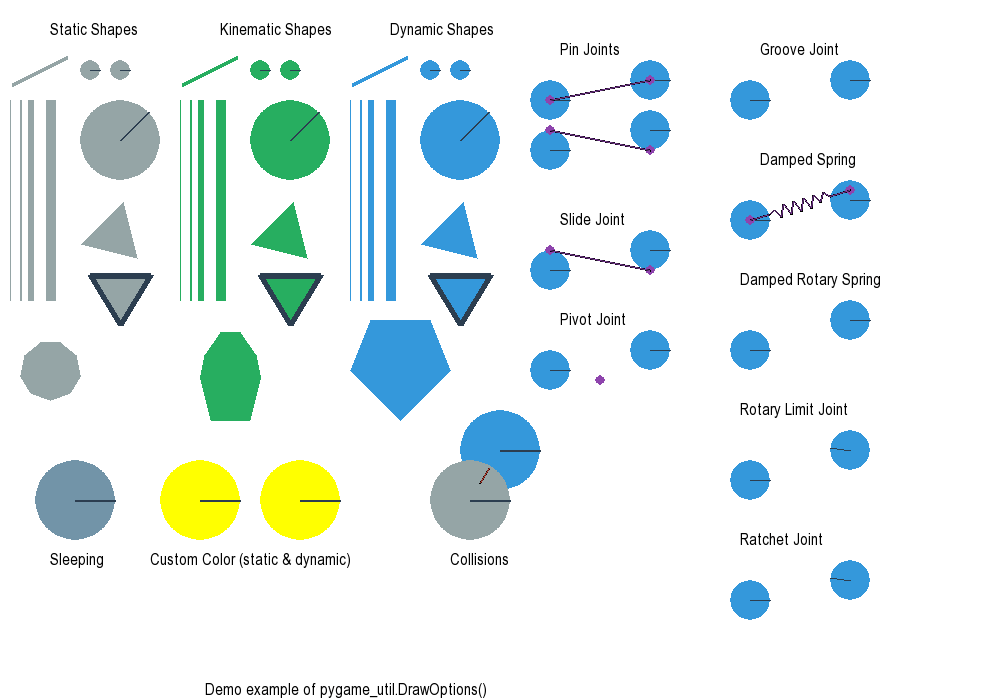
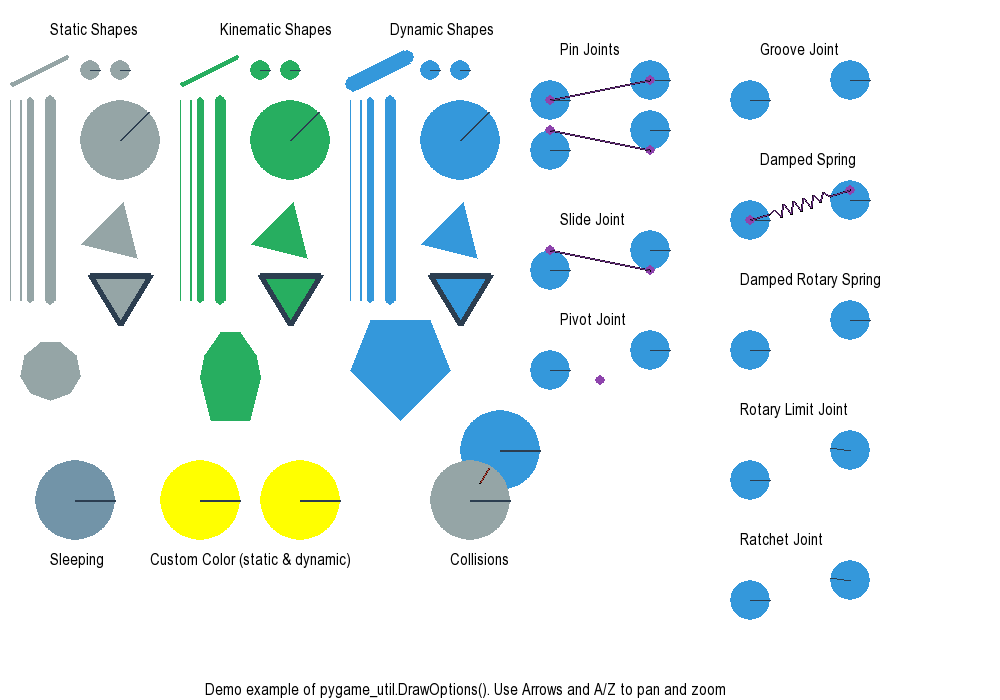
Improved segment drawing in pygame_util.py

Changed region(s): [[0.496, 0.96, 0.713, 1.0], [0.341, 0.06, 0.434, 0.15]]

diff --git a/pymunk/pygame_util.py b/pymunk/pygame_util.py
@@ -86,7 +86,7 @@ class DrawOptions(pymunk.SpaceDebugDrawOptions):
         make adjustments for that with the :py:data:`positive_y_is_up` variable.
 
         By default drawing is done with positive y pointing up, but that will 
-        make conversion from pygame coordinate to pymunk coordinate nessecary. 
+        make conversion from pygame coordinate to pymunk coordinate necessary. 
         If you do a lot of those (for example, lots of mouse input) it might be 
         more convenient to set it to False::
 
@@ -129,9 +129,26 @@ class DrawOptions(pymunk.SpaceDebugDrawOptions):
     def draw_fat_segment(self, a, b, radius, outline_color, fill_color):
         p1 = to_pygame(a, self.surface)
         p2 = to_pygame(b, self.surface)
-        
+        def rndint(x): return int(round(x))
         r = int(max(1, radius*2))
         pygame.draw.lines(self.surface, fill_color, False, [p1,p2], r)
+        if r > 2:
+            #pygame.draw.circle(self.surface, fill_color, p1, int(radius), 0)
+            #pygame.draw.circle(self.surface, fill_color, p2, int(radius), 0)
+        
+            delta = ( p2[0]-p1[0], p2[1]-p1[1] )
+            orthog = [ delta[1], -delta[0] ]
+            scale = radius / (orthog[0]*orthog[0] + orthog[1]*orthog[1])**0.5
+            orthog[0]*=scale; orthog[1]*=scale
+            points = [
+                ( p1[0]-orthog[0], p1[1]-orthog[1] ),
+                ( p1[0]+orthog[0], p1[1]+orthog[1] ),
+                ( p2[0]+orthog[0], p2[1]+orthog[1] ),
+                ( p2[0]-orthog[0], p2[1]-orthog[1] )
+            ]
+            pygame.draw.polygon(self.surface, fill_color, points)
+            pygame.draw.circle(self.surface, fill_color, (rndint(p1[0]),rndint(p1[1])), rndint(radius))
+            pygame.draw.circle(self.surface, fill_color, (rndint(p2[0]),rndint(p2[1])), rndint(radius))
         
     def draw_polygon(self, verts, radius, outline_color, fill_color):
         ps = [to_pygame(v, self.surface) for v in verts]

diff --git a/examples/shapes_for_draw_demos.py b/examples/shapes_for_draw_demos.py
@@ -129,7 +129,7 @@ def fill_space(space, custom_color=(255,255,0,255)):
     b = pymunk.Body(1,1)
     b.position = (380,630)
     b.angle = 3.14/7
-    s = pymunk.Segment(b, (-30,0), (30,0), 2)
+    s = pymunk.Segment(b, (-30,0), (30,0), 7)
     space.add(s)
     
     # Dynamic Circles
